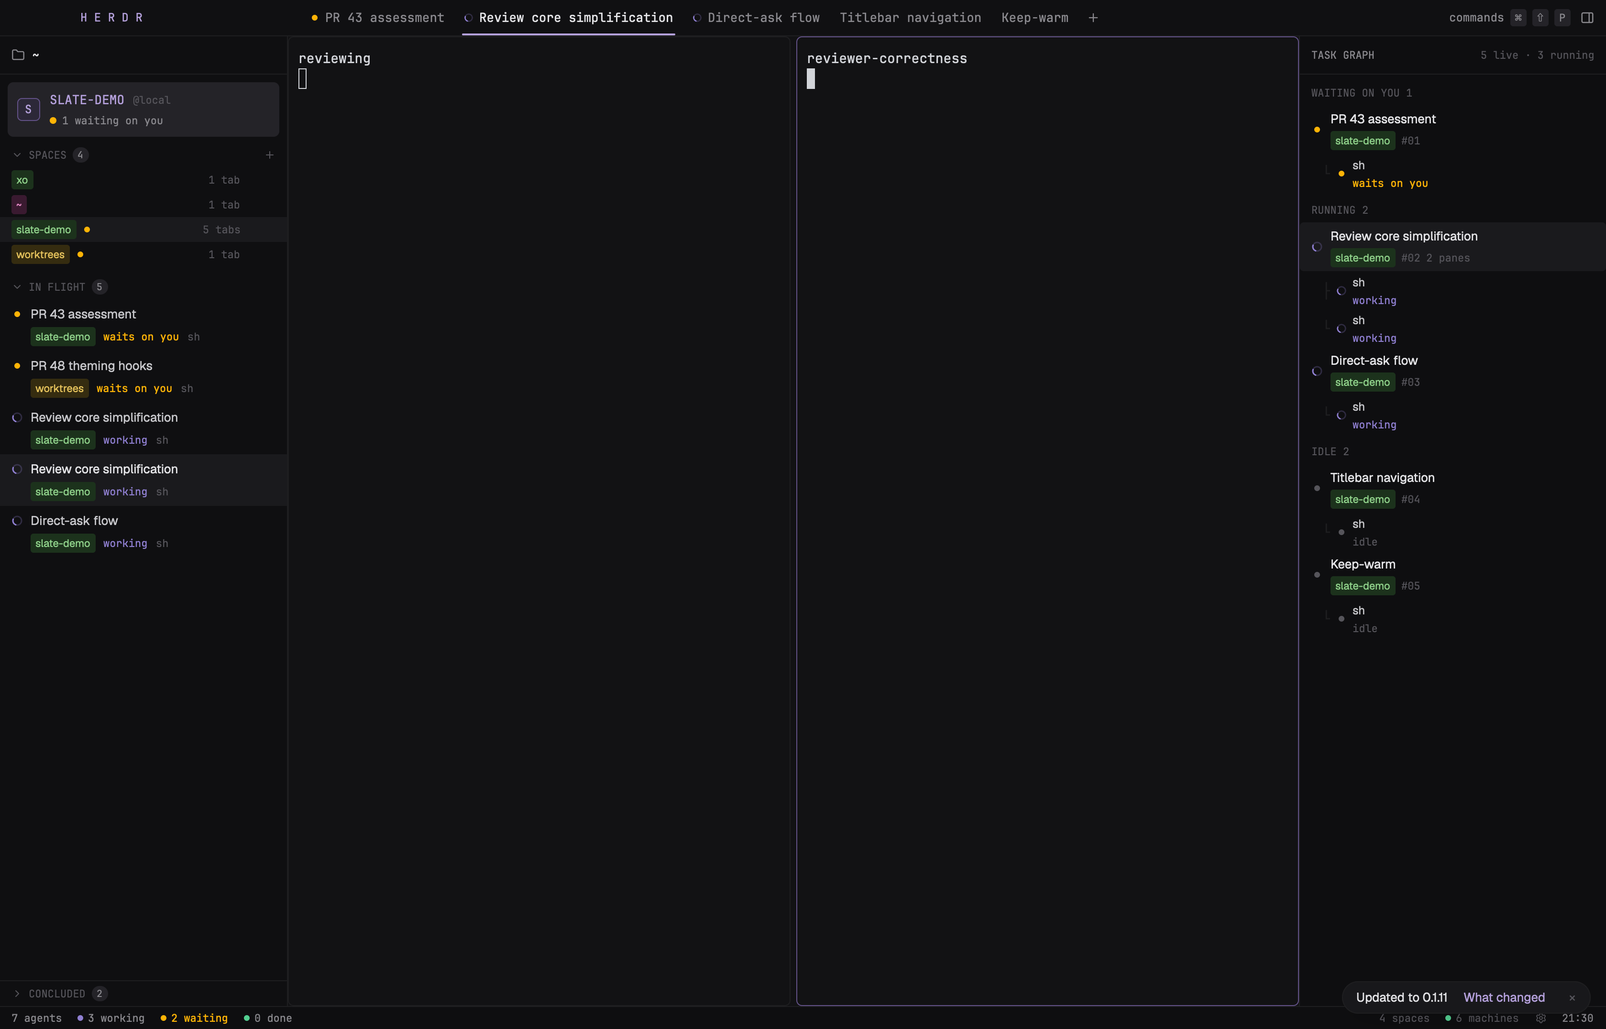
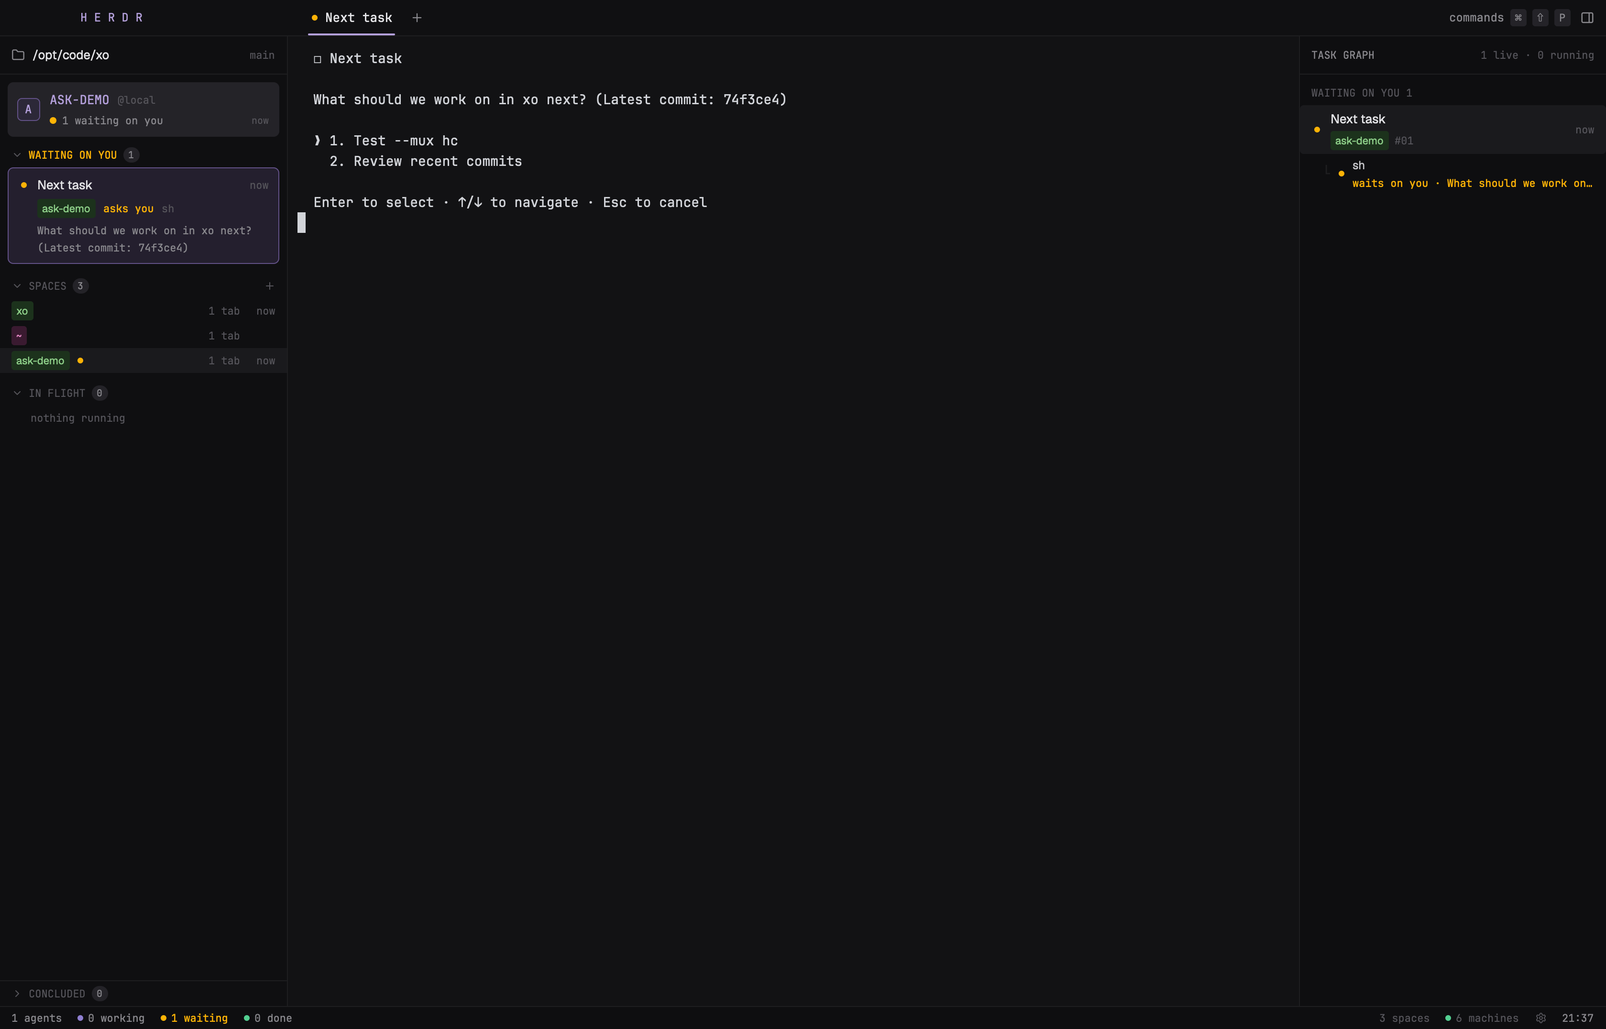
Slate: WAITING ON YOU cards with the question asked
Blocked agents get their own section under the pinned card: a card per
agent with its space, program and the question read off its screen
(hc read every 5s, shared with the task graph). Unnamed tabs take the
program's terminal title instead of their number, and the window
buttons sit centred in the 38px bar.

diff --git a/slate/mods/slate/main.js b/slate/mods/slate/main.js
@@ -1,10 +1,11 @@
 // Slate: a quiet, dense dark frame. One mod draws every part; the layout says which with props().part:
-// "top" (brand, text tabs with an underline, the command hint), "side" (the shown space as a pinned card, spaces
-// as coloured chips, agents in flight, the concluded ones folded away), "panel" (the shown space's task graph:
+// "top" (brand, text tabs with an underline, the command hint), "side" (the shown space as a pinned card, what
+// waits on you with the question asked, spaces as coloured chips, agents in flight, the concluded ones folded
+// away), "panel" (the shown space's task graph:
 // each tab and the agents in it) and "bottom" (the status bar). Right-clicks open Herdr's own menu mod.
 import { View, div, svg } from "gpui-kit";
 import { v_flex, h_flex } from "gpui-base";
-import { spaces, agents, machines, run, props, setAgentOrder, window, openOverlay, home } from "herdr";
+import { spaces, agents, machines, run, props, setAgentOrder, window, openOverlay, home, exec, shared, setShared } from "herdr";
 
 const C = {
   top: "#101012", side: "#0f0f11", main: "#121214", panel: "#0e0e10", card: "#242328", hover: "#1a1a1d",
@@ -40,6 +41,18 @@ function ago(ms, now) {
 }
 // what the program titled its terminal, when that says more than its address
 const said = (a) => (a.title && a.title !== a.address ? a.title : "");
+// what the agent is asking: the lowest line on its screen that ends a question, from `hc read` (screen only).
+// Its footer's "? for shortcuts" and similar hints are skipped; long questions are cut at ASK_MAX characters.
+const ASK_POLL = 5000;
+const ASK_MAX = 160;
+async function question(address) {
+  const r = await exec("hc", ["read", address]);
+  if (r.code !== 0) return "";
+  const lines = r.stdout.split("\n").map((l) => l.replace(/^[\s│┃╭╰╮╯─━❯›>⎿⏺●•◆□☐✳*]+/u, "").trim()).reverse();
+  const q = lines.find((l) => l.length >= 10 && /\p{L}/u.test(l) && /\?(\s|\)|$)/.test(l) && !l.startsWith("?") && !/shortcuts/i.test(l));
+  return !q ? "" : q.length > ASK_MAX ? q.slice(0, ASK_MAX - 1) + "…" : q;
+}
+const ASKS = "slate.asks"; // shared: terminal address -> its question, so the task graph shows it too
 const tilde = (p) => (p && home() && p.startsWith(home()) ? "~" + p.slice(home().length) : p ?? "");
 
 // Herdr's menu mod at the pointer: tab is "space", "tab", "pane" or "global"
@@ -72,7 +85,26 @@ export default class Slate extends View {
     this.now = Date.now();
     // relative times and the clock; Herdr's own data redraws without this
     cx.timer.every(30000, (cx) => { this.now = Date.now(); cx.notify(); });
-    this.open = { spaces: true, flight: true, concluded: false };
+    this.open = { waiting: true, spaces: true, flight: true, concluded: false };
+    // the sidebar reads what blocked agents ask; the task graph reads it from shared state
+    if ((_props?.part ?? props()?.part) === "side") {
+      this.asks(cx);
+      cx.timer.every(ASK_POLL, (cx) => this.asks(cx));
+    }
+  }
+
+  asks(cx) {
+    if (this.asking) return; // an earlier read is still out
+    const blocked = agents().filter((a) => a.status === "blocked").map((a) => a.address);
+    this.asking = true;
+    cx.spawn(async (cx) => {
+      const next = {};
+      for (const address of blocked) {
+        try { next[address] = await question(address); } catch { next[address] = ""; }
+      }
+      this.asking = false;
+      if (JSON.stringify(next) !== JSON.stringify(shared(ASKS) ?? {})) setShared(ASKS, next);
+    });
   }
 
   render() {
@@ -88,6 +120,12 @@ export default class Slate extends View {
   tabOf(a) {
     for (const s of spaces()) for (const t of s.tabs) if (t.id === a.tab) return t;
     return null;
+  }
+  // a row's title: the tab's name when someone named it, else what the program titled its terminal
+  titleOf(a) {
+    const t = this.tabOf(a);
+    if (t?.named) return t.name;
+    return said(a).replace(/^[^\p{L}\p{N}]+/u, "") || a.program?.name || a.tab_name;
   }
   when(a) {
     const t = this.tabOf(a);
@@ -130,7 +168,8 @@ export default class Slate extends View {
     const crew = agents().slice().sort((a, b) => (ORDER[a.status] ?? 4) - (ORDER[b.status] ?? 4));
     setAgentOrder(crew.map((a) => a.address));
     const space = list.find((s) => s.active);
-    const flight = crew.filter((a) => a.status === "working" || a.status === "blocked");
+    const blocked = crew.filter((a) => a.status === "blocked");
+    const flight = crew.filter((a) => a.status === "working");
     const concluded = crew.filter((a) => a.status !== "working" && a.status !== "blocked");
     // the pinned card counts only the shown space; the lists below cover every space
     const here = crew.filter((a) => a.space === space?.id);
@@ -159,10 +198,10 @@ export default class Slate extends View {
             .child(div().flex_1())
             .child(mono(10, C.dim, ago(space?.tabs?.reduce((m, t) => Math.max(m, t.changed_at ?? 0), 0), this.now))))));
 
-    const section = (key, label, n, extra) => h_flex().id(`sec-${key}`).w_full().h(26).flex_none().px(12).gap(6).items_center()
+    const section = (key, label, n, extra, color = C.dim) => h_flex().id(`sec-${key}`).w_full().h(26).flex_none().px(12).gap(6).items_center()
       .cursor_pointer().on_click((_e, cx) => { this.open[key] = !this.open[key]; cx.notify(); })
       .child(icon(this.open[key] ? "chevron-down" : "chevron-right", 12, C.dim))
-      .child(mono(11, C.dim, label.toUpperCase()))
+      .child(mono(11, color, label.toUpperCase()))
       .child(div().px(5).rounded(8).bg(C.card).font_family(MONO).text_size(10).text_color(C.muted).child(String(n)))
       .child(div().flex_1())
       .children(extra ? [extra] : []);
@@ -185,13 +224,32 @@ export default class Slate extends View {
       .child(h_flex().gap(8).items_center()
         .child(mark(a.status))
         .child(div().flex_1().min_w(0).truncate().font_family(SANS).text_size(13)
-          .text_color(a.focused ? C.text : "#c8c8cc").child(a.tab_name)))
+          .text_color(a.focused ? C.text : "#c8c8cc").child(this.titleOf(a))))
       .child(h_flex().pl(20).gap(8).items_center()
         .child(tag(a.space_name))
         .child(mono(11, STATUS[a.status] ?? C.dim, WORD[a.status] ?? a.status ?? ""))
         .child(div().flex_1().min_w(0).truncate().font_family(MONO).text_size(11).text_color(C.dim)
           .child(a.program?.name ?? a.app ?? ""))
         .child(mono(11, C.dim, ago(this.when(a), this.now))));
+
+    // a blocked agent as a card: what it is, where, and the question it asks
+    const asks = shared(ASKS) ?? {};
+    const askCard = (a) => v_flex().id(`ask-${a.address}`).mx(8).mb(6).px(10).py(7).gap(4).flex_none().rounded(6)
+      .bg(a.focused ? "#241f2e" : "#1a1720").border(1).border_color(C.accentDim).cursor_pointer()
+      .hover((st) => st.bg("#241f2e"))
+      .on_click(() => run("agent.focus", { terminal: a.address }))
+      .on_mouse_down("right", onRight(() => menu("pane", { pane: a.pane, terminal: a.address })))
+      .child(h_flex().gap(8).items_center()
+        .child(mark("blocked"))
+        .child(div().flex_1().min_w(0).truncate().font_family(SANS).text_size(13).text_color(C.text).child(this.titleOf(a)))
+        .child(mono(11, C.dim, ago(this.when(a), this.now))))
+      .child(h_flex().pl(20).gap(8).items_center()
+        .child(tag(a.space_name))
+        .child(mono(11, C.yellow, "asks you"))
+        .child(div().flex_1().min_w(0).truncate().font_family(MONO).text_size(11).text_color(C.dim)
+          .child(a.program?.name ?? a.app ?? "")))
+      .when(!!asks[a.address], (el) => el.child(div().pl(20).font_family(MONO).text_size(11).text_color(C.muted)
+        .child(asks[a.address])));
 
     const addSpace = noDrag(div().id("space-new").cursor_pointer().hover((st) => st.opacity(0.6))
       .on_click((_e, cx) => { cx.stop_propagation(); run("space.new", {}); }).child(icon("plus", 12, C.dim)));
@@ -200,6 +258,9 @@ export default class Slate extends View {
       .child(header)
       .child(card)
       .child(v_flex().id("side-lists").w_full().flex_1().min_h(0).overflow_y_scrollbar().pb(8)
+        .when(blocked.length > 0, (el) => el.child(section("waiting", "waiting on you", blocked.length, null, C.yellow))
+          .when(this.open.waiting, (el) => el.children(blocked.map(askCard)))
+          .child(div().h(4).flex_none()))
         .child(section("spaces", "spaces", list.length, addSpace))
         .when(this.open.spaces, (el) => el.children(list.map(spaceRow)))
         .child(div().h(8).flex_none())
@@ -217,10 +278,12 @@ export default class Slate extends View {
   panel() {
     const space = spaces().find((s) => s.active);
     const crew = agents().filter((a) => a.space === space?.id);
+    const asks = shared(ASKS) ?? {};
     const running = crew.filter((a) => a.status === "working").length;
     const tabs = (space?.tabs ?? []).filter((t) => !t.settled || t.status === "blocked");
     const node = (t) => {
       const inTab = crew.filter((a) => a.tab === t.id);
+      const title = t.named || !inTab.length ? t.name : this.titleOf(inTab[0]);
       return v_flex().id(`node-${t.id}`).w_full().flex_none().gap(2)
         .child(h_flex().id(`node-head-${t.id}`).w_full().px(12).py(4).gap(8).items_center().rounded(4)
           .bg(t.active ? C.hover : "#00000000").cursor_pointer().hover((st) => st.bg(C.hover))
@@ -228,7 +291,7 @@ export default class Slate extends View {
           .on_mouse_down("right", onRight(() => menu("tab", { id: t.id, space: space.id })))
           .child(mark(t.status))
           .child(v_flex().flex_1().min_w(0).gap(2)
-            .child(div().truncate().font_family(SANS).text_size(13).text_color(C.text).child(t.name))
+            .child(div().truncate().font_family(SANS).text_size(13).text_color(C.text).child(title))
             .child(h_flex().gap(6).items_center()
               .child(tag(space.name))
               .child(mono(11, C.dim, `#${two(t.index)}`))
@@ -242,7 +305,7 @@ export default class Slate extends View {
           .child(v_flex().flex_1().min_w(0)
             .child(div().truncate().font_family(SANS).text_size(12).text_color("#c8c8cc").child(a.program?.name ?? a.app ?? "agent"))
             .child(div().truncate().font_family(MONO).text_size(11).text_color(STATUS[a.status] ?? C.dim)
-              .child(`${WORD[a.status] ?? ""}${said(a) ? " · " + said(a) : ""}`)))));
+              .child(`${WORD[a.status] ?? ""}${(a.status === "blocked" && asks[a.address]) || said(a) ? " · " + ((a.status === "blocked" && asks[a.address]) || said(a)) : ""}`)))));
     };
     const group = (label, list) => !list.length ? [] : [
       h_flex().w_full().px(12).pt(10).pb(4).gap(6).items_center()

diff --git a/slate/RECIPE.md b/slate/RECIPE.md
@@ -1,6 +1,6 @@
 # Slate
 
-A quiet, dense dark frame around terminals. The left sidebar shows the shown space pinned as a card, then every space as a coloured chip and every agent in flight with its status. Agents that are done or idle fold away under CONCLUDED at the foot of the sidebar. Tabs are plain monospace text along the top, and the active one is underlined in lilac. On the right, a task graph lists the shown space's tabs, grouped by status, with the agents in each tab on tree lines. A one-line status bar sits at the bottom.
+A quiet, dense dark frame around terminals. The left sidebar shows the shown space pinned as a card. Under it, every agent waiting on you gets its own card with the question it asks. Then come every space as a coloured chip and every working agent. Agents that are done or idle fold away under CONCLUDED at the foot of the sidebar. Tabs are plain monospace text along the top, and the active one is underlined in lilac. On the right, a task graph lists the shown space's tabs, grouped by status, with the agents in each tab on tree lines. A one-line status bar sits at the bottom.
 
 ![Slate](preview.png)
 
@@ -19,20 +19,25 @@ The window is near-black. Titles are in Geist, 13px. Everything else is in JetBr
      - A 24px avatar square with the space's first letter in lilac and a `#625187` border.
      - The space name in bold lilac capitals, then `@machine` (or `@local`) in dim mono.
      - A second line, for this space only: a yellow dot and `n waiting on you` when its agents are blocked, otherwise a green dot and `n working`. The time since the space last changed sits on the right.
+   - `WAITING ON YOU n`, shown only while an agent is blocked. Its header is in yellow (`#ffb406`). Each blocked agent is a card, 8px in from both sides with 6px between cards. The card is `#1a1720` (`#241f2e` on hover or when focused), 6px radius, with a 1px `#625187` border, and has three lines:
+     - The pulsing yellow dot, the row title (see below) and the time.
+     - Indented: the space chip, `asks you` in yellow and the program name.
+     - Indented: the question the agent asks, in 11px `#8a898e` mono, wrapping, cut at 160 characters with `…`. This line is left out when no question is found.
    - `SPACES n`, a collapsible section header: a chevron, the name in dim mono capitals and a count badge. A `+` on the right makes a new space.
      - One 26px row per space: the name as a chip, a pulsing yellow dot when an agent there needs you, `n tabs` and the time since it last changed. The shown space's row is highlighted `#1a1a1d`.
-   - `IN FLIGHT n`: every working or blocked agent, blocked first. Each row has two lines:
-     - The status mark and the tab name (13px Geist).
+   - `IN FLIGHT n`: every working agent. Each row has two lines:
+     - The status mark and the row title (13px Geist).
      - Indented under it: the space chip, the status word in its colour, the program name and the time.
      - The focused agent's row is highlighted.
-   - `CONCLUDED n`: done and idle agents. Folded, it is pinned to the foot of the sidebar above a 1px line. Unfolded, it lists those agents like IN FLIGHT.
+   - `CONCLUDED n`: done and idle agents.
+   - **Row titles:** the tab's name when someone named it. Otherwise, use what the program titled its terminal, with leading symbols such as `✳` removed. If the title is just the terminal's address, use the program's name instead. This keeps an unnamed tab from showing as `1`. Folded, it is pinned to the foot of the sidebar above a 1px line. Unfolded, it lists those agents like IN FLIGHT.
 3. **Work area:** the active tab's panes. They sit on `#121214` with 6px gaps, 6px radius and a 1px `#1e1e20` border; the focused pane's border is `#625187`. A tab's only pane gets no frame.
 4. **Task graph, 320px (drag between 240 and 480), `#0e0e10`.**
    - Header, 40px: `TASK GRAPH` and `n live · m running`.
-   - The shown space's tabs, grouped under `WAITING ON YOU`, `RUNNING`, `LANDED` and `IDLE` (empty groups are left out). Each tab row has:
+   - The shown space's tabs (titled like the sidebar's rows), grouped under `WAITING ON YOU`, `RUNNING`, `LANDED` and `IDLE` (empty groups are left out). Each tab row has:
      - The status mark, the tab name, the space chip, `#nn` and `n panes`.
      - The time it started working or last changed, on the right.
-   - Under each tab, every agent in it on a `├`/`└` tree line: the program name, then the status word in colour, plus the terminal's title when the program set one.
+   - Under each tab, every agent in it on a `├`/`└` tree line: the program name, then the status word in colour, plus the question for a blocked agent, or else the terminal's title when the program set one.
 5. **Status bar, 24px, `#0e0e10`.**
    - Left: `n agents`, `n working` (purple dot), `n waiting` (yellow dot; the text turns yellow when it is above 0), `n done` (green dot).
    - Right: `n spaces`, `n machines`, a settings gear and the clock.
@@ -61,10 +66,18 @@ Terminal colours: background `#121214`, foreground `#e4e4e7`, selection `#3a3150
 | done | circle check | green `#53cf91` | `done` |
 | idle | dot | dim `#56555b` | `idle` |
 
+**The question:** every 5s the sidebar runs `hc read <address>` for each blocked agent; that prints the terminal's screen as plain text. It strips leading frame and bullet characters (`│ ╭ ╰ ─ ❯ › > ⎿ ⏺ ● • ◆ □ ☐ ✳ *`) from each line, then takes the lowest line that:
+- is at least 10 characters long,
+- contains a letter,
+- has a `?` followed by a space, `)` or the end of the line,
+- doesn't start with `?` and doesn't mention `shortcuts`.
+
+It shares the answers as `shared("slate.asks")` (address → question), so the task graph shows them too. It only writes them when they changed.
+
 **Clicks:**
 - A tab, or a tab row in the task graph: `tab.select {id}`.
 - A space row: `space.select {id}`.
-- An agent row, or an agent leaf in the task graph: `agent.focus {terminal}`.
+- An agent row, a waiting card, or an agent leaf in the task graph: `agent.focus {terminal}`.
 - A section header folds or unfolds that section (kept per mod copy, not saved).
 - `+` after the tabs: Herdr's new menu. `+` in SPACES: `space.new`.
 - `commands`: `app.palette`. The panel icon: `layout.toggle {id: "panel"}`, which hides or shows the task graph. The gear: `app.settings`.
@@ -72,14 +85,14 @@ Terminal colours: background `#121214`, foreground `#e4e4e7`, selection `#3a3150
 **Right-clicks** open Herdr's own menu mod:
 - A space row or the pinned card: the space menu.
 - A tab, or a tab row in the task graph: the tab menu.
-- An agent row: the pane menu.
+- An agent row or waiting card: the pane menu.
 - Anywhere else: the global menu.
 
-The agent order follows IN FLIGHT and then CONCLUDED, through `setAgentOrder`, so `agent.next` and `agent.prev` walk the sidebar from top to bottom.
+The agent order follows WAITING ON YOU, then IN FLIGHT, then CONCLUDED, through `setAgentOrder`, so `agent.next` and `agent.prev` walk the sidebar from top to bottom.
 
 ## Built from
 
-- **`layouts/slate.json`:** a `column` root with `titlebar: "none"`, `traffic_lights: [14, 19]`, `theme: "graphite"`, the colours above, `font: "JetBrains Mono"`, `ui_font: "Geist"` and `preview: "mods/slate/preview.png"`.
+- **`layouts/slate.json`:** a `column` root with `titlebar: "none"`, `traffic_lights: [14, 13]` (the top edge of the 12px buttons, centring them in the 38px bar), `theme: "graphite"`, the colours above, `font: "JetBrains Mono"`, `ui_font: "Geist"` and `preview: "mods/slate/preview.png"`.
   - `top`: a block of `{ "px": 38 }`, `window_drag`.
   - `body`: a resizable row with a 1px `#1e1e20` divider, holding:
     - `sidebar`: a block of `{ "px": 300 }`, min 220, max 440.
@@ -87,7 +100,7 @@ The agent order follows IN FLIGHT and then CONCLUDED, through `setAgentOrder`, s
     - `panel`: a block of `{ "px": 320 }`, min 240, max 480.
   - `bottom`: a block of `{ "px": 24 }`.
 - **One mod, `mods/slate`** (`{ "place": "none" }`), used by all four mod blocks. `props().part` picks what it draws: `"top"`, `"side"`, `"panel"` or `"bottom"`. It uses `gpui-kit` `div`/`svg` and `gpui-base` `h_flex`/`v_flex`.
-- **`herdr` functions:** `spaces()` (including each tab's `changed_at` and `working_since` for the times), `agents()`, `machines()`, `window()` (only its `platform`), `props()`, `run()`, `setAgentOrder()`, `openOverlay()` and `home()`. It runs no programs, makes no network requests and reads no files.
+- **`herdr` functions:** `spaces()` (including each tab's `changed_at` and `working_since` for the times), `agents()`, `machines()`, `window()` (only its `platform`), `props()`, `run()`, `setAgentOrder()`, `openOverlay()`, `home()`, `shared()`/`setShared()` and `exec()`. The one program it runs is `hc read <address>` (screen only, no history), for blocked agents every 5s. It makes no network requests and reads no files.
 - **Shipped mods:** `menu` (right-click menus, opened with `props {tab: "space" | "tab" | "pane" | "global", target}`) and `new-menu` (the `+` popup). It replaces the tab bar, sidebar and status bar.
 - **Art:** Lucide icons copied into `mods/slate/` (`folder`, `chevron-right`, `chevron-down`, `plus`, `circle-check`, `settings`), plus two drawn for this layout: `panel-right.svg` (a rounded rectangle split near its right side) and `spinner.svg` (a faint circle with a quarter arc, turned with `.spin(900)`). They are tinted with the text colour through `svg()`.
 
@@ -98,6 +111,7 @@ The agent order follows IN FLIGHT and then CONCLUDED, through `setAgentOrder`, s
 - **Herdr's times are `changed_at`/`working_since` on the tab, not the agent**, so every agent in one tab shows the same time. Before anything changes after a start, times are blank.
 - **The task graph only shows the shown space.** It shows settled tabs only when they are blocked.
 - **The terminal title is often just its address.** Rows use the tab name as their title and show the terminal title only when it differs from the address.
+- **The question is a guess from the screen.** A program that asks without a `?`, or draws its question above a longer list that has one, shows the wrong line or none. Remote agents are read through their `machine/t7` address.
 - **The sidebar's lists scroll; the pinned card and the CONCLUDED footer do not.**
 - **Menus are Herdr's, not restyled**, so rename, close, split and worktrees behave exactly as in Herdr's own layouts.
 - **A hidden window doesn't redraw.** `herdr-app shot` returns the last frame drawn, so bring the window forward before taking a screenshot.
@@ -106,8 +120,8 @@ The agent order follows IN FLIGHT and then CONCLUDED, through `setAgentOrder`, s
 
 1. `herdr-app check ~/.config/herdr-app/mods/slate` passes.
 2. `layout.switch {name: "slate"}` shows the frame, and `herdr-app status` lists no errors from `slate`.
-3. A terminal that sends `OSC 7501 state=blocked` shows a pulsing yellow dot in IN FLIGHT and under WAITING ON YOU in the task graph, and raises `n waiting` in the status bar, and in the pinned card when that terminal's space is shown.
-4. A terminal that sends `state=working` shows a spinning arc and moves to RUNNING.
+3. A terminal that sends `OSC 7501 state=blocked` and prints `What should we work on next?` gets a WAITING ON YOU card with that question, and shows under WAITING ON YOU in the task graph, and raises `n waiting` in the status bar, and in the pinned card when that terminal's space is shown.
+4. A terminal that sends `state=working` shows a spinning arc in IN FLIGHT and under RUNNING.
 5. Clicking an agent row focuses its terminal. Clicking a space row switches spaces, and the pinned card and folder change with it.
 6. The panel icon hides and shows the task graph. `+` after the tabs opens Herdr's new menu.
 7. Right-clicking a space, tab or agent row opens its menu.

diff --git a/README.md b/README.md
@@ -5,7 +5,7 @@ Layouts for the [Herdr](https://herdr.dev) app, one folder each. Each folder has
 | Layout | |
 | --- | --- |
 | [LCARS](lcars/RECIPE.md) | A Star Trek LCARS frame: an orange elbow and sidebar of spaces and crew, status-coloured tab pills, blocked agents pulse red. |
-| [Slate](slate/RECIPE.md) | A quiet, dense dark frame: a sidebar with the shown space pinned, spaces as colour chips and agents in flight, text tabs with an underline, a task graph of the shown space on the right. |
+| [Slate](slate/RECIPE.md) | A quiet, dense dark frame: a sidebar with the shown space pinned, cards for agents waiting on you with their question, spaces as colour chips and agents in flight, text tabs with an underline, a task graph of the shown space on the right. |
 
 [Shepherdr](https://github.com/eliasstravik/shepherdr) gets the same look: [`shepherdr/`](shepherdr/README.md) is an LCARS theme plugin for its web app, and the LCARS layout shows Shepherdr's counts in its sidebar.
 
